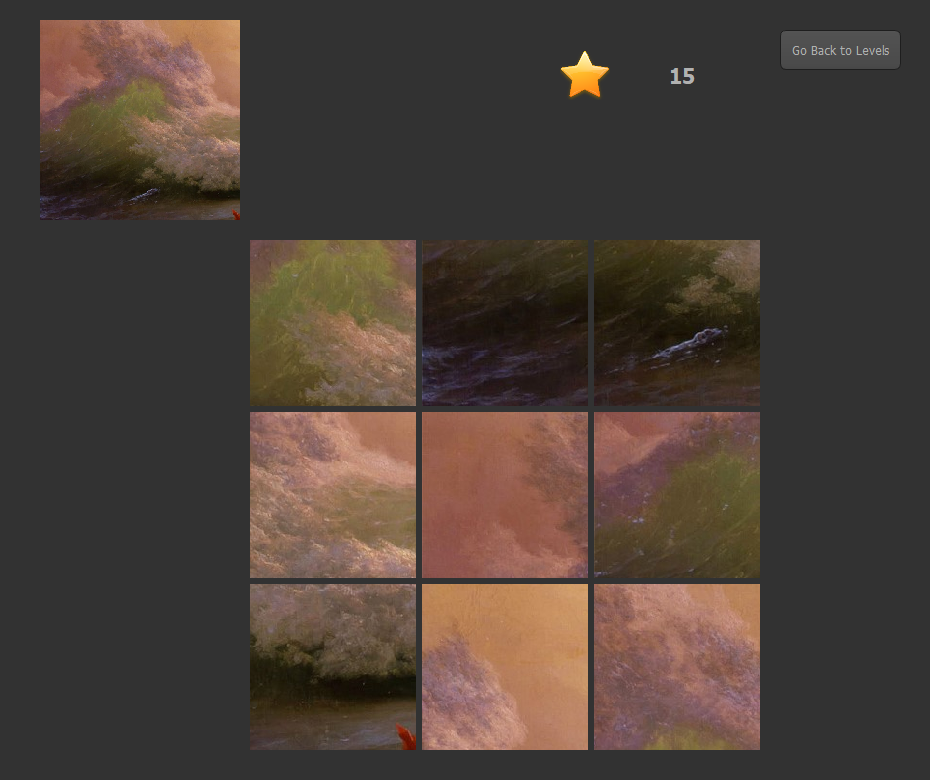
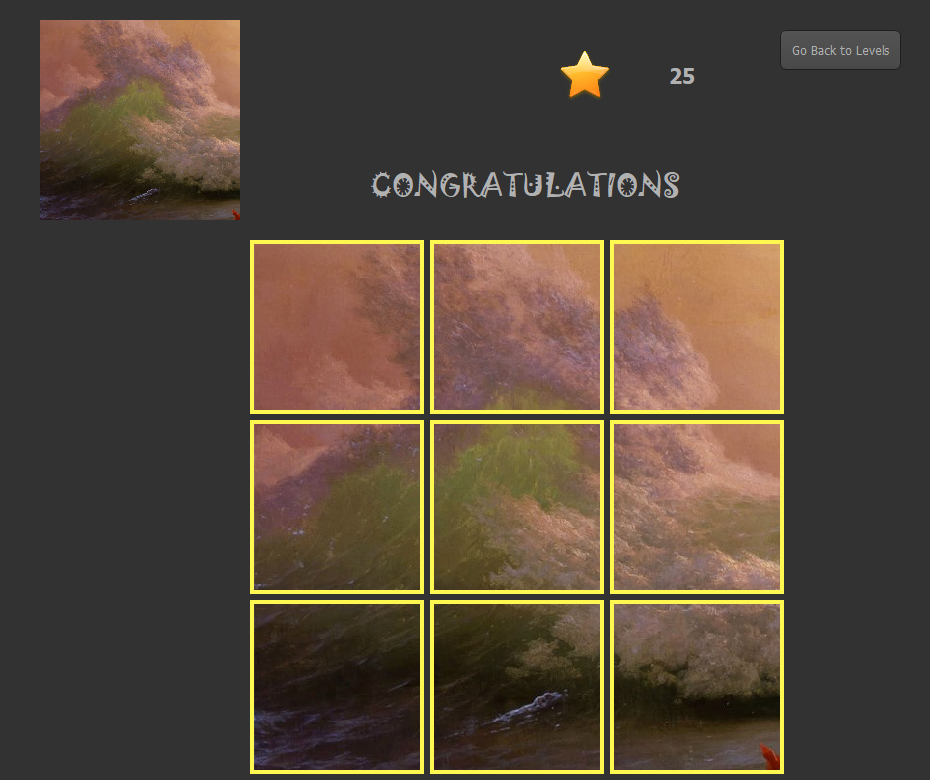
Update readme

diff --git a/Lab_2/README.md b/Lab_2/README.md
@@ -92,3 +92,9 @@ users.endGroup();
 Повні зміни у [мердж реквесті](https://github.com/knu-5-tochanenko/SoftwareReengineering/pull/9/files).
 
 ## 5. Додати затримку після того, як було успішно складено паззл; Додати оновлювану кількість зірок після успішного складання паззлу
+
+Було пофікшено відображення тексту "Congratulations" і додано відображення зірок.
+
+![alt text](./images/10.png)
+
+Повні зміни у [мердж реквесті](https://github.com/knu-5-tochanenko/SoftwareReengineering/pull/10/files).
